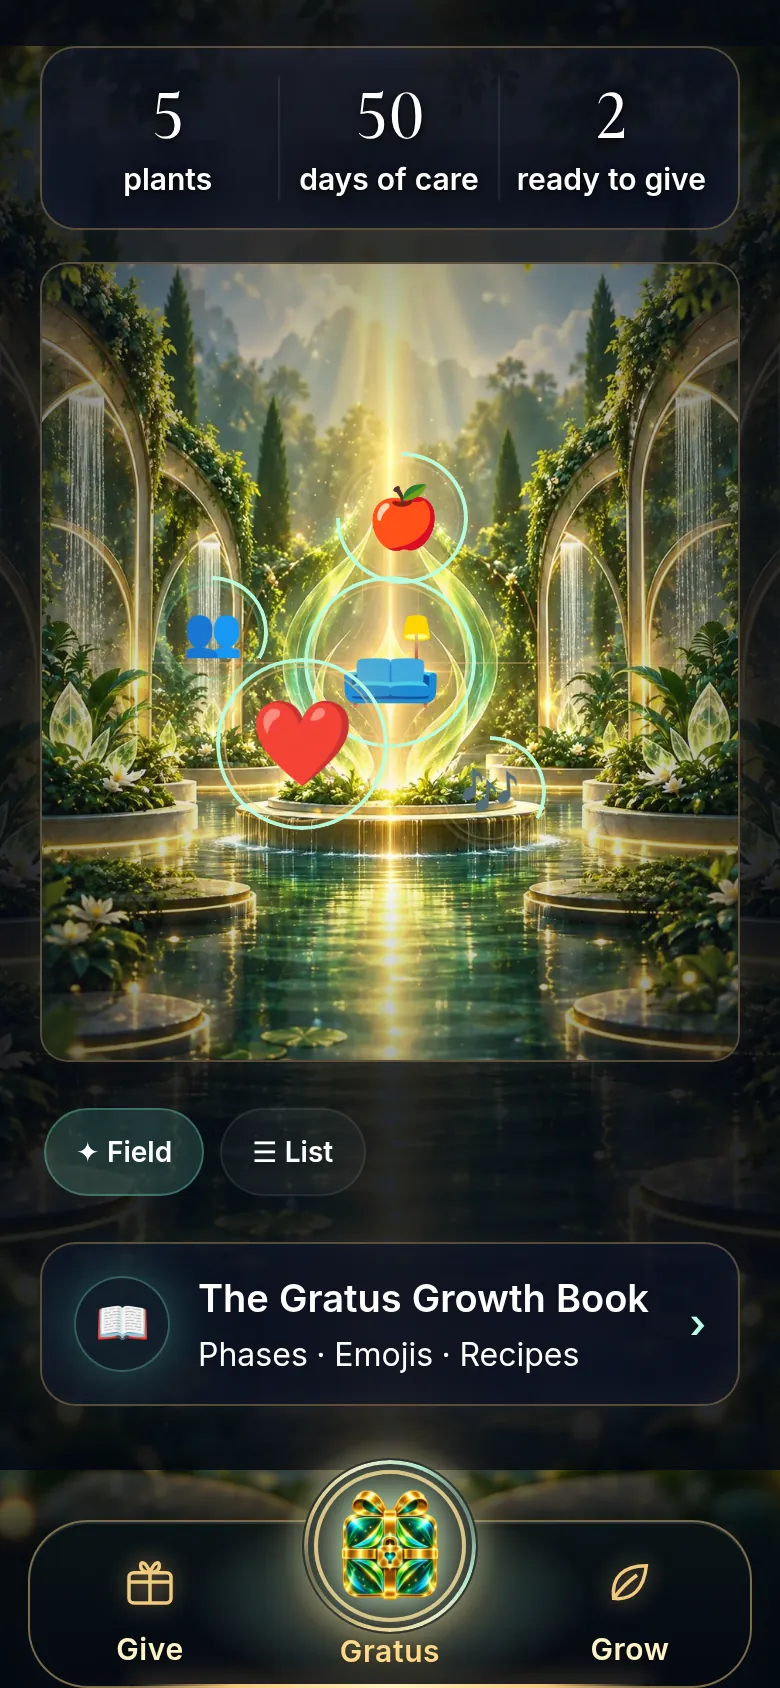
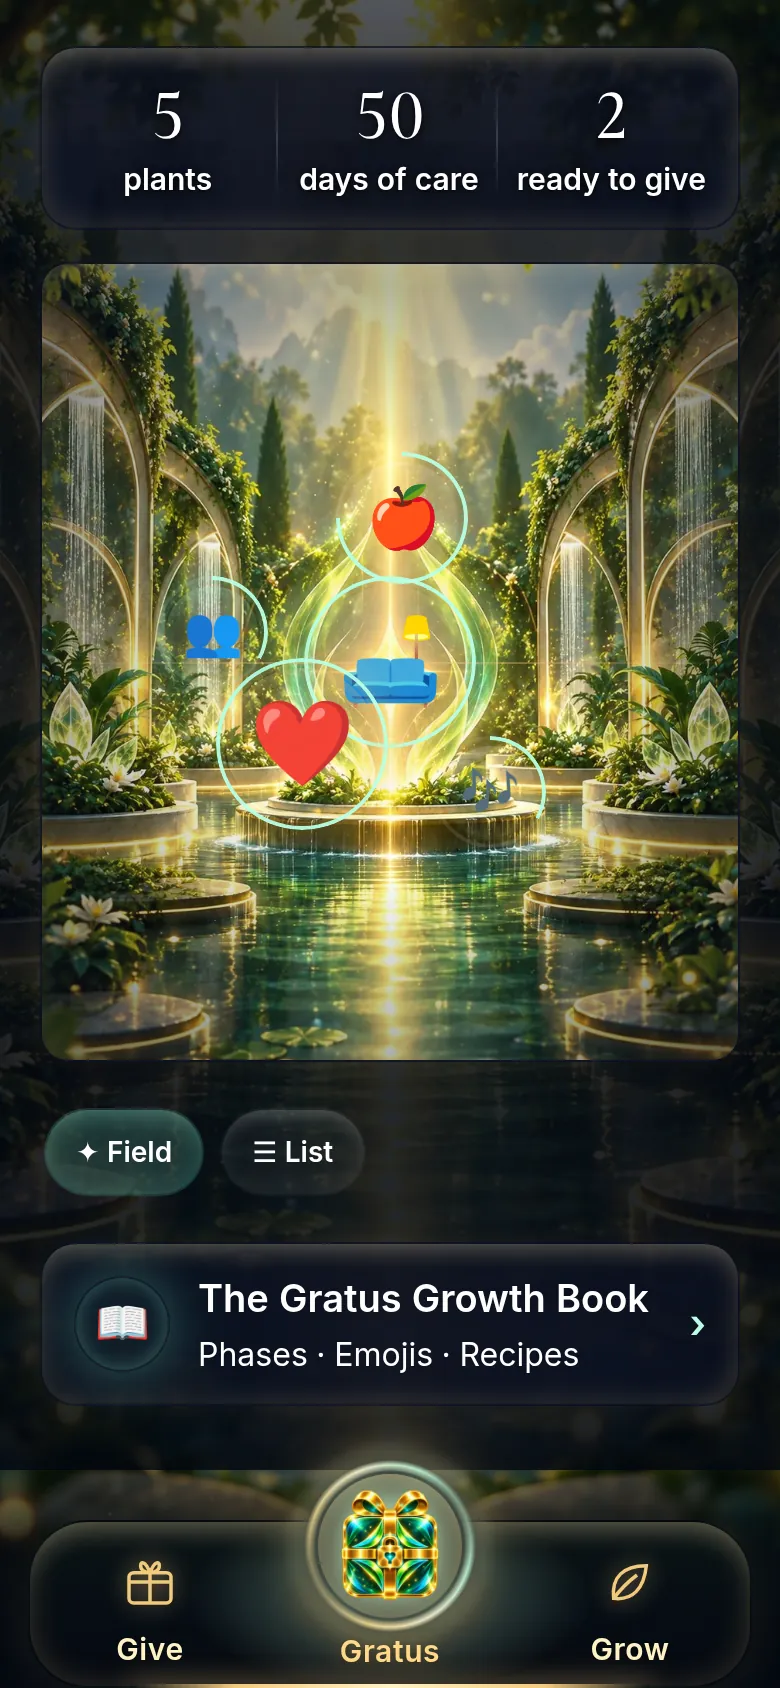
v53: the weight a phone carries
The weight gate counts what a phone downloads (text compressed, pictures as they are), and the
front page's photographs were retaken from the app as it is today, with the newest entry under
Today instead of on tomorrow.

diff --git a/sw.js b/sw.js
@@ -1,6 +1,6 @@
 // Offline-first shell. Everything lives on the device for now.
-const V = 'gratus-1795330617';
-const SHELL = ['/app.html', '/assets/css/tokens.css?v=37', '/assets/css/galaxy.css?v=42', '/assets/js/galaxy.js?v=1795330617', '/assets/js/ui.js?v=14', '/assets/js/views.js?v=18', '/assets/js/tour.js?v=20', '/assets/js/trax.js?v=19', '/assets/js/account.js?v=20', '/assets/js/billing.js?v=21', '/assets/js/keep.js?v=13', '/assets/js/giftmark.js?v=42', '/assets/js/motus.js?v=41', '/assets/js/films.js?v=44', '/assets/js/record.js?v=1',
+const V = 'gratus-1795485414';
+const SHELL = ['/app.html', '/assets/css/tokens.css?v=37', '/assets/css/galaxy.css?v=42', '/assets/js/galaxy.js?v=1795485414', '/assets/js/ui.js?v=14', '/assets/js/views.js?v=18', '/assets/js/tour.js?v=20', '/assets/js/trax.js?v=19', '/assets/js/account.js?v=20', '/assets/js/billing.js?v=21', '/assets/js/keep.js?v=13', '/assets/js/giftmark.js?v=42', '/assets/js/motus.js?v=41', '/assets/js/films.js?v=44', '/assets/js/record.js?v=1',
   '/engine/gratus.js?v=12', '/engine/emoji.js?v=12', '/engine/rng.js?v=12', '/engine/state.js?v=14', '/engine/journal.js?v=1',
   '/config/evolutions.json?v=22', '/config/emoji-names.json?v=22', '/config/prompts.json?v=22', '/config/copy.json?v=22', '/config/growth-book.json?v=22', '/config/recipes.json?v=22', '/config/alchemy.json?v=22', '/config/families.json?v=22', '/config/partners.json?v=22',
   '/assets/art/gfx/logo.webp', '/assets/art/gfx/g11.webp', '/assets/art/gfx/g08.webp', '/assets/art/gfx/g13.webp', '/assets/art/gfx/g15.webp', '/assets/art/gfx/g20.webp', '/assets/art/gfx/g22.webp', '/assets/art/gfx/g27.webp', '/assets/art/gfx/v3-poster.webp',

diff --git a/app.html b/app.html
@@ -41,6 +41,6 @@
 <div id="tour" role="dialog" aria-modal="true" aria-label="A first walk through Gratus" hidden></div>
 <div id="toast" role="status" aria-live="polite"></div>
 <noscript><div class="noscript"><h2>Gratus.CC</h2><p class="lead">Gratus needs JavaScript. The page at <a href="/">gratus.cc</a> reads without it.</p></div></noscript>
-<script type="module" src="/assets/js/galaxy.js?v=1795330617"></script>
+<script type="module" src="/assets/js/galaxy.js?v=1795485414"></script>
 </body>
 </html>

diff --git a/gift.html b/gift.html
@@ -43,6 +43,6 @@
 <div id="tour" role="dialog" aria-modal="true" aria-label="A first walk through Gratus" hidden></div>
 <div id="toast" role="status" aria-live="polite"></div>
 <noscript><div class="noscript"><h2>Gratus.CC</h2><p class="lead">Gratus needs JavaScript. The page at <a href="/">gratus.cc</a> reads without it.</p></div></noscript>
-<script type="module" src="/assets/js/galaxy.js?v=1795330617"></script>
+<script type="module" src="/assets/js/galaxy.js?v=1795485414"></script>
 </body>
 </html>

diff --git a/guided.html b/guided.html
@@ -76,6 +76,6 @@
 <div id="tour" role="dialog" aria-modal="true" aria-label="A first walk through Gratus" hidden></div>
 <div id="toast" role="status" aria-live="polite"></div>
 <noscript><div class="noscript"><h2>Gratus.CC</h2><p class="lead">Gratus needs JavaScript. The page at <a href="/">gratus.cc</a> reads without it.</p></div></noscript>
-<script type="module" src="/assets/js/galaxy.js?v=1795330617"></script>
+<script type="module" src="/assets/js/galaxy.js?v=1795485414"></script>
 </body>
 </html>

diff --git a/p.html b/p.html
@@ -43,6 +43,6 @@
 <div id="tour" role="dialog" aria-modal="true" aria-label="A first walk through Gratus" hidden></div>
 <div id="toast" role="status" aria-live="polite"></div>
 <noscript><div class="noscript"><h2>Gratus.CC</h2><p class="lead">Gratus needs JavaScript. The page at <a href="/">gratus.cc</a> reads without it.</p></div></noscript>
-<script type="module" src="/assets/js/galaxy.js?v=1795330617"></script>
+<script type="module" src="/assets/js/galaxy.js?v=1795485414"></script>
 </body>
 </html>

diff --git a/passage.html b/passage.html
@@ -43,6 +43,6 @@
 <div id="tour" role="dialog" aria-modal="true" aria-label="A first walk through Gratus" hidden></div>
 <div id="toast" role="status" aria-live="polite"></div>
 <noscript><div class="noscript"><h2>Gratus.CC</h2><p class="lead">Gratus needs JavaScript. The page at <a href="/">gratus.cc</a> reads without it.</p></div></noscript>
-<script type="module" src="/assets/js/galaxy.js?v=1795330617"></script>
+<script type="module" src="/assets/js/galaxy.js?v=1795485414"></script>
 </body>
 </html>

diff --git a/docs/EVOLUTIONS.md b/docs/EVOLUTIONS.md
@@ -2,6 +2,11 @@
 
 Every version of Gratus.CC, what changed and why. The full working record is in [DECISIONS.md](../DECISIONS.md), [BUILD-NOTES.md](../BUILD-NOTES.md) and [LESSONS.md](../LESSONS.md).
 
+## v53 · The weight a phone carries (2026-11-23)
+
+- **G28 weighs what a phone downloads.** Its ceilings counted raw bytes, while the host sends every text file compressed: galaxy.js is 269 KB on disk and 80 KB on the wire. Code and comments weighed three to four times what a phone receives, and v52 had to trim comments to fit. Each HTML, CSS, JS, JSON or SVG file now counts at its gzip size (setting 6, within about 1% of what the site sends), each picture and film at its own bytes. The ceilings were measured again on v52 and set 5% above each route, and a control adds 120 KB of text that will not compress and must be seen.
+- **The front page shows the app as it is today.** Its three photographs were retaken from the current app. The script that takes them dated its garden by the UTC calendar while the app reads the local one, so a photograph taken on an American evening put the newest entry on tomorrow, above Today. It keeps the local calendar now.
+
 ## v52 · A room arrives (2026-11-21)
 
 - **A room arrives.** A room used to appear all at once while its world crossfaded in behind it, so the page landed in two ways at the same moment. Its first blocks rise into place now, a few hundredths of a second apart, and can be touched from the first frame. A repaint a moment later never plays it twice, and under reduced motion nothing moves.
